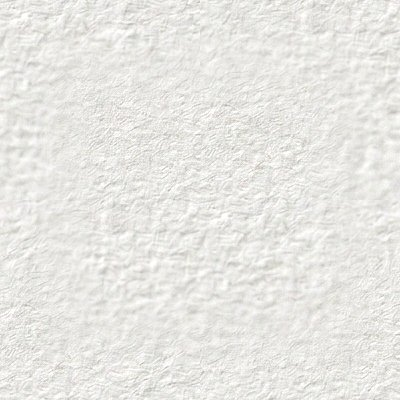
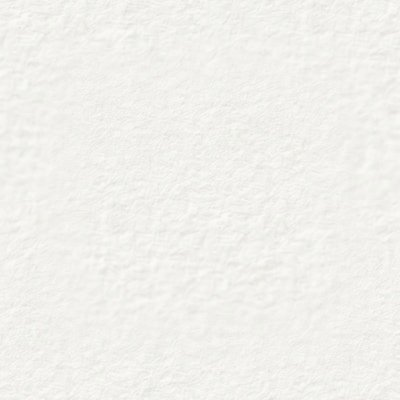
Texture papier plus douce pour une meilleure lisibilité
Claude-Session: https://claude.ai/code/session_01NjtbTttEB7U2Qjus9QhHmR

diff --git a/assets/css/style.css b/assets/css/style.css
@@ -1,6 +1,6 @@
 /* SevenCom : papier texturé + textes gravés, d'après le logo */
 :root{
-  --paper:#e9e8e4;
+  --paper:#efeeea;
   --ink:#1f5a87;        /* bleu gravé */
   --ink-deep:#163f61;
   --ink-light:#5aa6d8;  /* bleu plume */
@@ -11,7 +11,7 @@
   --lo:rgba(16,45,72,.38);      /* ombre au-dessus de la gravure */
 }
 *{box-sizing:border-box}
-html{background:var(--paper) url('/assets/img/paper.jpg?v=2') repeat;background-size:400px}
+html{background:var(--paper) url('/assets/img/paper.jpg?v=3') repeat;background-size:400px}
 body{margin:0;min-height:100vh;color:var(--text);font:16px/1.7 Montserrat,system-ui,sans-serif;
   background:radial-gradient(ellipse at 15% 0%,rgba(255,255,255,.55),transparent 55%),radial-gradient(ellipse at 100% 100%,rgba(0,0,0,.06),transparent 60%);
   text-shadow:0 1px 0 var(--hi)}
